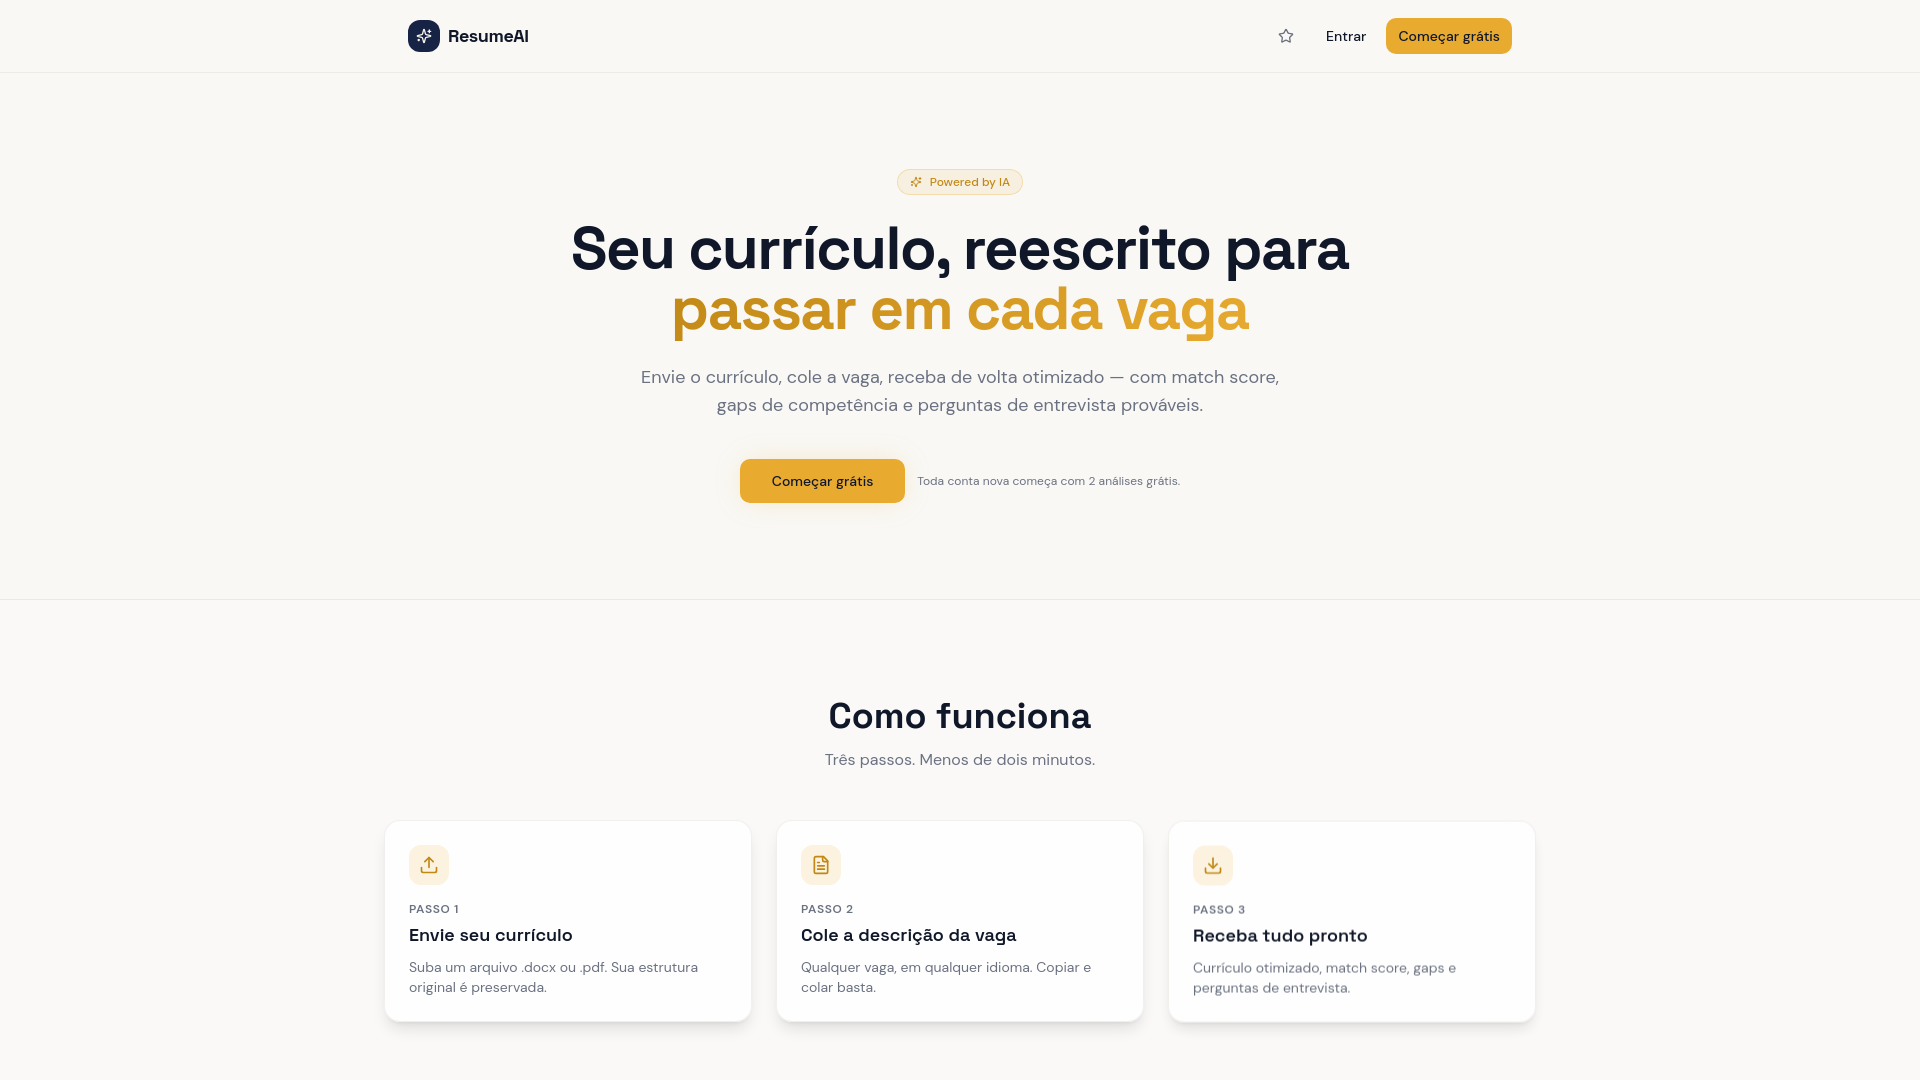
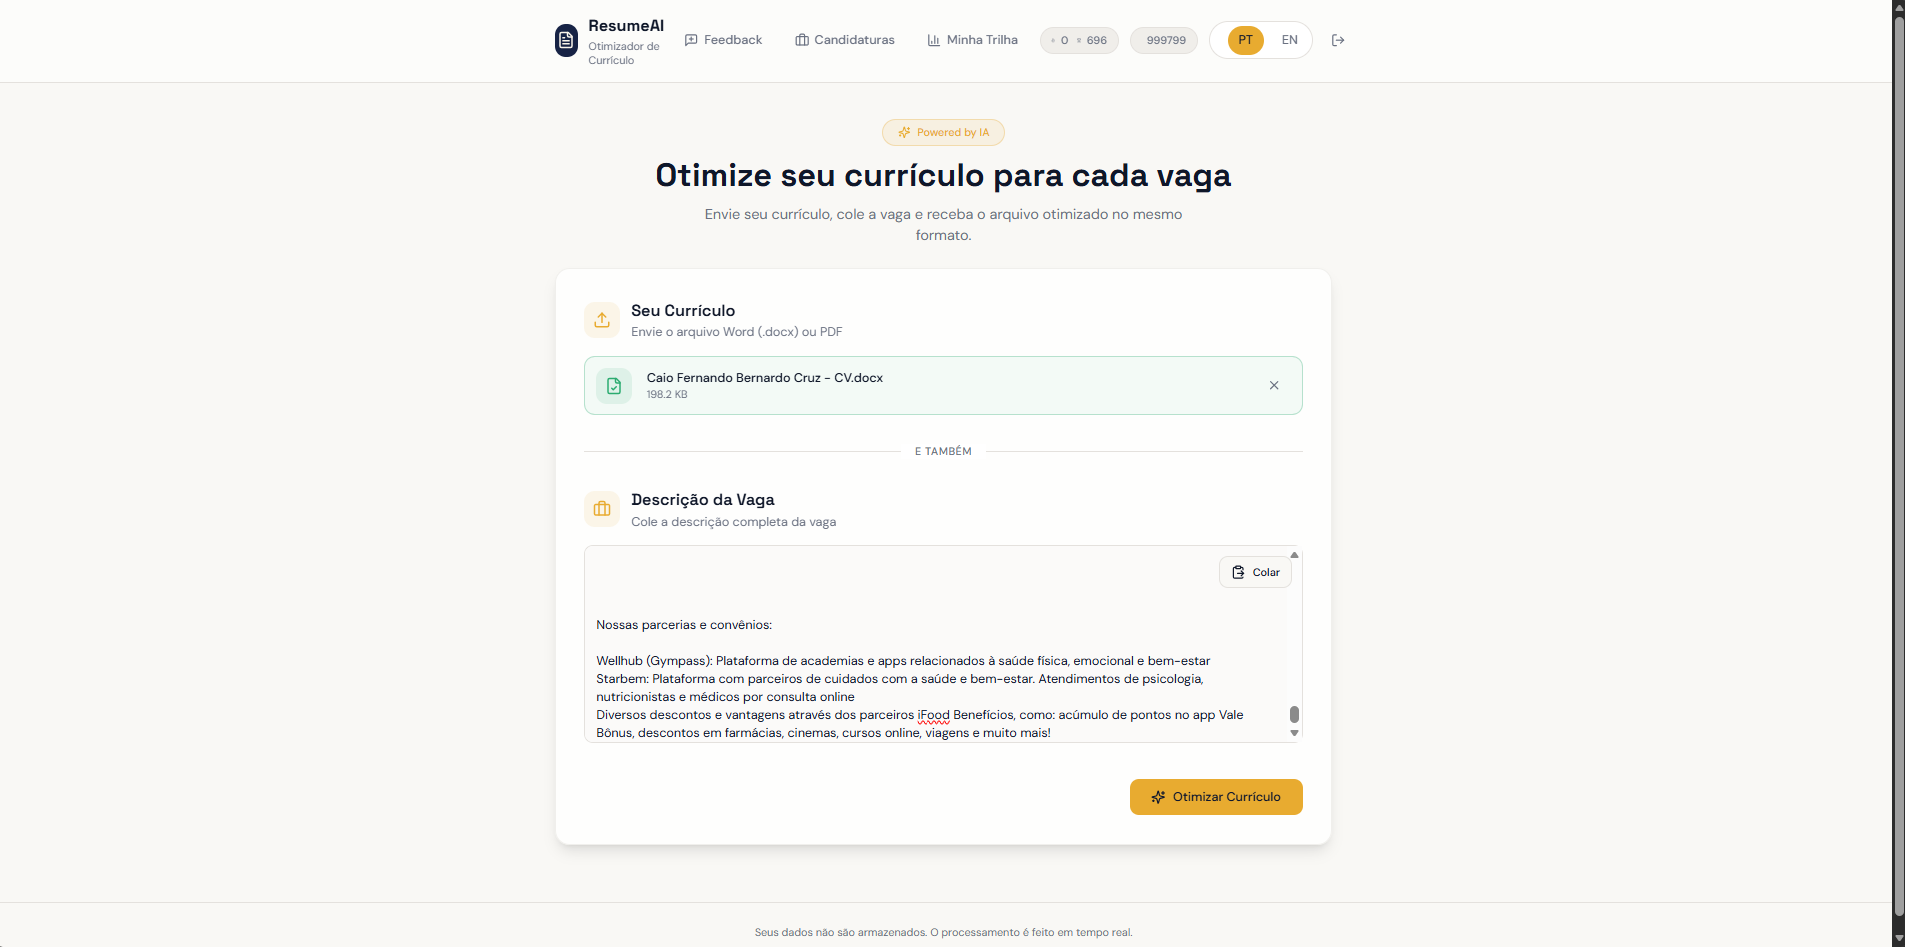
Troca print pelo produto real (ResumeAI) e detalha Minha Trilha e Candidaturas

diff --git a/README.md b/README.md
@@ -3,6 +3,8 @@
 > Ajuste inteligente de currículo para cada vaga: a IA adapta seu CV à descrição da vaga, em português e inglês, com download em PDF.
 
 ![Home](screenshots/01-home.png)
+![Minha Trilha](screenshots/02-trilha.png)
+![Candidaturas](screenshots/03-candidaturas.png)
 
 ## O problema
 
@@ -15,11 +17,11 @@ O CV Ninja recebe seu currículo e a descrição da vaga, e a IA reescreve o CV 
 ## Funcionalidades
 
 - **Ajuste por vaga**: cole a descrição, receba o CV otimizado com match score e gaps de competência
+- **Minha Trilha**: gamificação do desenvolvimento profissional — pontos, nível, match médio entre otimizações e mapa dos gaps que mais se repetem entre as vagas aplicadas
+- **Candidaturas**: kanban de status por vaga (aplicada, entrevista, oferta, recusada, aceita, desistiu), com link da vaga e notas
 - **Bilíngue**: português e inglês, preservando a formatação original do currículo
 - **Export em PDF** com formatação profissional
-- **Perguntas de entrevista prováveis** geradas com base na vaga
 - **Cobrança por consumo**: integração de pagamentos e página de planos para quem passa do uso gratuito
-- **Histórico de aplicações**: acompanhamento das vagas já trabalhadas
 - **IA como copiloto**, não inventora: realça o que você já tem, não inventa experiência
 
 ## Stack
